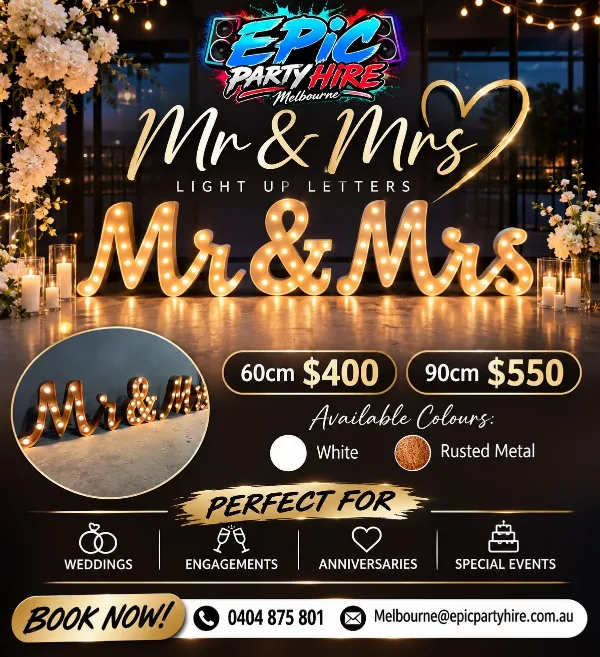
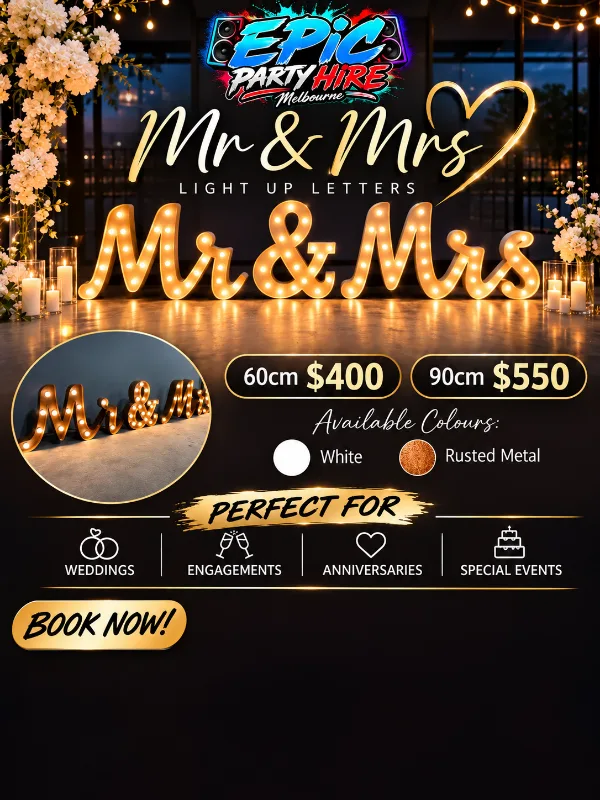
New flyers without contact details: patio heaters, Mr & Mrs, marquee numbers

diff --git a/index.html b/index.html
@@ -140,9 +140,9 @@
 <article class="deal-card product-card" data-product="fairy-floss"><button class="product-card__open" type="button" aria-label="View details and prices for Fairy floss machine"><span class="deal-card__image"><img alt="Fairy floss machine hire, EPIC Party Hire Melbourne" decoding="async" height="657" loading="lazy" src="assets/cards/fairy-floss.webp?v=4" width="600"/></span></button><div class="deal-card__body"><div class="deal-card__titleline"><h3>Fairy floss machine</h3><span class="deal-card__price">$200</span></div><p>Pink cart machine with ingredients for 150 serves.</p><div class="deal-card__actions"><button class="deal-card__button deal-card__button--primary product-card__details-btn" type="button">VIEW DETAILS <span>+</span></button><button aria-label="Select this item and go to the enquiry form" class="deal-card__button deal-card__button--select choose-deal" data-item="Fairy floss machine hire" type="button">SELECT ITEM <span>✓</span></button></div></div><div class="product-card__more" hidden=""><img alt="Fairy floss machine hire flyer with prices" data-src="assets/fairy-floss.webp?v=4" height="1312" width="1199"/><h3>Fairy floss machine</h3><p class="product-modal__spiel">Sweet, fluffy and always a crowd favourite. A hit at kids parties, carnivals and dessert tables.</p><table class="product-modal__prices"><caption>Prices</caption><tbody><tr><th scope="row">Fairy floss machine hire</th><td>$200</td></tr><tr><th scope="row">Extra 150 serves</th><td>+$50</td></tr></tbody></table><h4>What's included</h4><ul><li>Ingredients for up to 150 serves</li><li>Pink fairy floss cart</li><li>Delivery and collection (subject to location)</li></ul><span class="product-modal__item" data-item="Fairy floss machine hire" data-kind="product"></span></div></article>
 <article class="deal-card product-card" data-product="karaoke"><button class="product-card__open" type="button" aria-label="View details and prices for Karaoke jukebox"><span class="deal-card__image"><img alt="Karaoke jukebox hire, EPIC Party Hire Melbourne" decoding="async" height="657" loading="lazy" src="assets/cards/karaoke.webp?v=4" width="600"/></span></button><div class="deal-card__body"><div class="deal-card__titleline"><h3>Karaoke jukebox</h3><span class="deal-card__price">From $200</span></div><p>5000+ video tracks, 2 microphones and an LED disco light.</p><div class="deal-card__actions"><button class="deal-card__button deal-card__button--primary product-card__details-btn" type="button">VIEW DETAILS <span>+</span></button><button aria-label="Select this item and go to the enquiry form" class="deal-card__button deal-card__button--select choose-deal" data-item="Karaoke machine hire" type="button">SELECT ITEM <span>✓</span></button></div></div><div class="product-card__more" hidden=""><img alt="Karaoke jukebox hire flyer with prices" data-src="assets/karaoke.webp?v=4" height="1312" width="1199"/><h3>Karaoke jukebox</h3><p class="product-modal__spiel">Turn any room into a stage. Thousands of songs, two mics and a disco light. All you need is someone brave enough to go first.</p><table class="product-modal__prices"><caption>Prices</caption><tbody><tr><th scope="row">Karaoke jukebox hire</th><td>From $200</td></tr></tbody></table><h4>What's included</h4><ul><li>5000+ video tracks and 600+ karaoke tracks</li><li>New Top 40 hits loaded every quarter</li><li>2 microphones</li><li>LED disco light</li><li>Delivery and collection (subject to location)</li></ul><span class="product-modal__item" data-item="Karaoke machine hire" data-kind="product"></span></div></article>
 <article class="deal-card product-card" data-product="arcade"><button class="product-card__open" type="button" aria-label="View details and prices for Arcade games"><span class="deal-card__image"><img alt="Arcade games hire, EPIC Party Hire Melbourne" decoding="async" height="657" loading="lazy" src="assets/cards/arcade.webp?v=4" width="600"/></span></button><div class="deal-card__body"><div class="deal-card__titleline"><h3>Arcade games</h3><span class="deal-card__price">$200</span></div><p>Retro sit-down arcade table with classic games and 2 stools.</p><div class="deal-card__actions"><button class="deal-card__button deal-card__button--primary product-card__details-btn" type="button">VIEW DETAILS <span>+</span></button><button aria-label="Select this item and go to the enquiry form" class="deal-card__button deal-card__button--select choose-deal" data-item="Arcade games hire" type="button">SELECT ITEM <span>✓</span></button></div></div><div class="product-card__more" hidden=""><img alt="Arcade games hire flyer with prices" data-src="assets/arcade.webp?v=4" height="1312" width="1199"/><h3>Arcade games</h3><p class="product-modal__spiel">Bring back the classics. Our retro sit-down arcade table is loaded with old-school favourites for head-to-head battles.</p><table class="product-modal__prices"><caption>Prices</caption><tbody><tr><th scope="row">Arcade game hire</th><td>$200</td></tr></tbody></table><h4>What's included</h4><ul><li>Retro cocktail-style arcade table</li><li>Classic games built in</li><li>2 stools included</li><li>Delivery and collection (subject to location)</li></ul><span class="product-modal__item" data-item="Arcade games hire" data-kind="product"></span></div></article>
-<article class="deal-card product-card" data-product="numbers"><button class="product-card__open" type="button" aria-label="View details and prices for Giant light-up numbers"><span class="deal-card__image"><img alt="Giant light-up numbers hire, EPIC Party Hire Melbourne" decoding="async" height="637" loading="lazy" src="assets/cards/numbers.webp?v=5" width="600"/></span></button><div class="deal-card__body"><div class="deal-card__titleline"><h3>Giant light-up numbers</h3><span class="deal-card__price">From $200</span></div><p>Two marquee numbers, 60cm to 180cm. Price is for 2 numbers.</p><div class="deal-card__actions"><button class="deal-card__button deal-card__button--primary product-card__details-btn" type="button">VIEW DETAILS <span>+</span></button><button aria-label="Select this item and go to the enquiry form" class="deal-card__button deal-card__button--select choose-deal" data-item="Giant light-up letters and numbers" type="button">SELECT ITEM <span>✓</span></button></div></div><div class="product-card__more" hidden=""><img alt="Giant light-up numbers hire flyer with prices" data-src="assets/numbers.webp?v=5" height="1293" width="1217"/><h3>Giant light-up numbers</h3><p class="product-modal__spiel">Light up the big birthday. Giant marquee numbers make the perfect photo backdrop for 18ths, 21sts, 30ths, 40ths and beyond.</p><table class="product-modal__prices"><caption>Prices</caption><tbody><tr><th scope="row">60cm light bulb (pair)</th><td>$200</td></tr><tr><th scope="row">90cm light bulb (pair)</th><td>$260</td></tr><tr><th scope="row">150cm light bulb (pair)</th><td>$360</td></tr><tr><th scope="row">180cm gloss white (pair, limited stock)</th><td>$300</td></tr></tbody></table><h4>What's included</h4><ul><li>Prices are for 2 numbers</li><li>Warm marquee bulbs</li><li>Delivery and collection (subject to location)</li></ul><span class="product-modal__item" data-item="Giant light-up letters and numbers" data-kind="product"></span></div></article>
-<article class="deal-card product-card" data-product="mr-mrs"><button class="product-card__open" type="button" aria-label="View details and prices for Mr &amp; Mrs letters"><span class="deal-card__image"><img alt="Mr &amp; Mrs letters hire, EPIC Party Hire Melbourne" decoding="async" height="657" loading="lazy" src="assets/cards/mr-mrs.webp?v=4" width="600"/></span></button><div class="deal-card__body"><div class="deal-card__titleline"><h3>Mr &amp; Mrs letters</h3><span class="deal-card__price">From $400</span></div><p>Light-up script letters in white or rusted metal.</p><div class="deal-card__actions"><button class="deal-card__button deal-card__button--primary product-card__details-btn" type="button">VIEW DETAILS <span>+</span></button><button aria-label="Select this item and go to the enquiry form" class="deal-card__button deal-card__button--select choose-deal" data-item="Mr and Mrs light-up letters" type="button">SELECT ITEM <span>✓</span></button></div></div><div class="product-card__more" hidden=""><img alt="Mr &amp; Mrs letters hire flyer with prices" data-src="assets/mr-mrs.webp?v=4" height="1312" width="1199"/><h3>Mr &amp; Mrs letters</h3><p class="product-modal__spiel">The finishing touch for weddings and engagements. Glowing Mr &amp; Mrs script letters for the bridal table or dance floor.</p><table class="product-modal__prices"><caption>Prices</caption><tbody><tr><th scope="row">60cm letters</th><td>$400</td></tr><tr><th scope="row">90cm letters</th><td>$550</td></tr></tbody></table><h4>What's included</h4><ul><li>Available in white or rusted metal</li><li>Perfect for weddings, engagements and anniversaries</li><li>Delivery and collection (subject to location)</li></ul><span class="product-modal__item" data-item="Mr and Mrs light-up letters" data-kind="product"></span></div></article>
-<article class="deal-card product-card" data-product="patio-heaters"><button class="product-card__open" type="button" aria-label="View details and prices for Patio heaters"><span class="deal-card__image"><img alt="Patio heaters hire, EPIC Party Hire Melbourne" decoding="async" height="657" loading="lazy" src="assets/cards/patio-heaters.webp?v=4" width="600"/></span></button><div class="deal-card__body"><div class="deal-card__titleline"><h3>Patio heaters</h3><span class="deal-card__price">From $160</span></div><p>Gas patio heaters with bottles, 8 hours of heating each.</p><div class="deal-card__actions"><button class="deal-card__button deal-card__button--primary product-card__details-btn" type="button">VIEW DETAILS <span>+</span></button><button aria-label="Select this item and go to the enquiry form" class="deal-card__button deal-card__button--select choose-deal" data-item="Patio heaters hire" type="button">SELECT ITEM <span>✓</span></button></div></div><div class="product-card__more" hidden=""><img alt="Patio heaters hire flyer with prices" data-src="assets/patio-heaters.webp?v=4" height="1312" width="1199"/><h3>Patio heaters</h3><p class="product-modal__spiel">Keep the party going when the sun goes down. Ideal for marquees, gardens, pergolas and open courtyards.</p><table class="product-modal__prices"><caption>Prices</caption><tbody><tr><th scope="row">1 heater</th><td>$160</td></tr><tr><th scope="row">2 heaters</th><td>$240</td></tr><tr><th scope="row">3 heaters</th><td>$320</td></tr><tr><th scope="row">4 heaters</th><td>$390</td></tr></tbody></table><h4>What's included</h4><ul><li>Gas bottle included with each heater</li><li>Around 8 hours of heating per bottle</li><li>Delivery and collection (subject to location)</li></ul><span class="product-modal__item" data-item="Patio heaters hire" data-kind="product"></span></div></article>
+<article class="deal-card product-card" data-product="numbers"><button class="product-card__open" type="button" aria-label="View details and prices for Giant light-up numbers"><span class="deal-card__image"><img alt="Giant light-up numbers hire, EPIC Party Hire Melbourne" decoding="async" height="800" loading="lazy" src="assets/cards/numbers.webp?v=6" width="600"/></span></button><div class="deal-card__body"><div class="deal-card__titleline"><h3>Giant light-up numbers</h3><span class="deal-card__price">From $200</span></div><p>Two marquee numbers, 60cm to 180cm. Price is for 2 numbers.</p><div class="deal-card__actions"><button class="deal-card__button deal-card__button--primary product-card__details-btn" type="button">VIEW DETAILS <span>+</span></button><button aria-label="Select this item and go to the enquiry form" class="deal-card__button deal-card__button--select choose-deal" data-item="Giant light-up letters and numbers" type="button">SELECT ITEM <span>✓</span></button></div></div><div class="product-card__more" hidden=""><img alt="Giant light-up numbers hire flyer with prices" data-src="assets/numbers.webp?v=6" height="1448" width="1086"/><h3>Giant light-up numbers</h3><p class="product-modal__spiel">Light up the big birthday. Giant marquee numbers make the perfect photo backdrop for 18ths, 21sts, 30ths, 40ths and beyond.</p><table class="product-modal__prices"><caption>Prices</caption><tbody><tr><th scope="row">60cm light bulb (pair)</th><td>$200</td></tr><tr><th scope="row">90cm light bulb (pair)</th><td>$260</td></tr><tr><th scope="row">150cm light bulb (pair)</th><td>$360</td></tr><tr><th scope="row">180cm gloss white (pair, limited stock)</th><td>$300</td></tr></tbody></table><h4>What's included</h4><ul><li>Prices are for 2 numbers</li><li>Warm marquee bulbs</li><li>Delivery and collection (subject to location)</li></ul><span class="product-modal__item" data-item="Giant light-up letters and numbers" data-kind="product"></span></div></article>
+<article class="deal-card product-card" data-product="mr-mrs"><button class="product-card__open" type="button" aria-label="View details and prices for Mr &amp; Mrs letters"><span class="deal-card__image"><img alt="Mr &amp; Mrs letters hire, EPIC Party Hire Melbourne" decoding="async" height="800" loading="lazy" src="assets/cards/mr-mrs.webp?v=6" width="600"/></span></button><div class="deal-card__body"><div class="deal-card__titleline"><h3>Mr &amp; Mrs letters</h3><span class="deal-card__price">From $400</span></div><p>Light-up script letters in white or rusted metal.</p><div class="deal-card__actions"><button class="deal-card__button deal-card__button--primary product-card__details-btn" type="button">VIEW DETAILS <span>+</span></button><button aria-label="Select this item and go to the enquiry form" class="deal-card__button deal-card__button--select choose-deal" data-item="Mr and Mrs light-up letters" type="button">SELECT ITEM <span>✓</span></button></div></div><div class="product-card__more" hidden=""><img alt="Mr &amp; Mrs letters hire flyer with prices" data-src="assets/mr-mrs.webp?v=6" height="1448" width="1086"/><h3>Mr &amp; Mrs letters</h3><p class="product-modal__spiel">The finishing touch for weddings and engagements. Glowing Mr &amp; Mrs script letters for the bridal table or dance floor.</p><table class="product-modal__prices"><caption>Prices</caption><tbody><tr><th scope="row">60cm letters</th><td>$400</td></tr><tr><th scope="row">90cm letters</th><td>$550</td></tr></tbody></table><h4>What's included</h4><ul><li>Available in white or rusted metal</li><li>Perfect for weddings, engagements and anniversaries</li><li>Delivery and collection (subject to location)</li></ul><span class="product-modal__item" data-item="Mr and Mrs light-up letters" data-kind="product"></span></div></article>
+<article class="deal-card product-card" data-product="patio-heaters"><button class="product-card__open" type="button" aria-label="View details and prices for Patio heaters"><span class="deal-card__image"><img alt="Patio heaters hire, EPIC Party Hire Melbourne" decoding="async" height="800" loading="lazy" src="assets/cards/patio-heaters.webp?v=6" width="600"/></span></button><div class="deal-card__body"><div class="deal-card__titleline"><h3>Patio heaters</h3><span class="deal-card__price">From $160</span></div><p>Gas patio heaters with bottles, 8 hours of heating each.</p><div class="deal-card__actions"><button class="deal-card__button deal-card__button--primary product-card__details-btn" type="button">VIEW DETAILS <span>+</span></button><button aria-label="Select this item and go to the enquiry form" class="deal-card__button deal-card__button--select choose-deal" data-item="Patio heaters hire" type="button">SELECT ITEM <span>✓</span></button></div></div><div class="product-card__more" hidden=""><img alt="Patio heaters hire flyer with prices" data-src="assets/patio-heaters.webp?v=6" height="1448" width="1086"/><h3>Patio heaters</h3><p class="product-modal__spiel">Keep the party going when the sun goes down. Ideal for marquees, gardens, pergolas and open courtyards.</p><table class="product-modal__prices"><caption>Prices</caption><tbody><tr><th scope="row">1 heater</th><td>$160</td></tr><tr><th scope="row">2 heaters</th><td>$240</td></tr><tr><th scope="row">3 heaters</th><td>$320</td></tr><tr><th scope="row">4 heaters</th><td>$390</td></tr></tbody></table><h4>What's included</h4><ul><li>Gas bottle included with each heater</li><li>Around 8 hours of heating per bottle</li><li>Delivery and collection (subject to location)</li></ul><span class="product-modal__item" data-item="Patio heaters hire" data-kind="product"></span></div></article>
 <article class="deal-card product-card" data-product="outdoor-cinema"><button class="product-card__open" type="button" aria-label="View details and prices for Outdoor cinema"><span class="deal-card__image"><img alt="Outdoor cinema hire, EPIC Party Hire Melbourne" decoding="async" height="657" loading="lazy" src="assets/cards/outdoor-cinema.webp?v=4" width="600"/></span></button><div class="deal-card__body"><div class="deal-card__titleline"><h3>Outdoor cinema</h3><span class="deal-card__price">$400</span></div><p>100-inch inflatable screen, projector and sound bar.</p><div class="deal-card__actions"><button class="deal-card__button deal-card__button--primary product-card__details-btn" type="button">VIEW DETAILS <span>+</span></button><button aria-label="Select this item and go to the enquiry form" class="deal-card__button deal-card__button--select choose-deal" data-item="Outdoor cinema hire" type="button">SELECT ITEM <span>✓</span></button></div></div><div class="product-card__more" hidden=""><img alt="Outdoor cinema hire flyer with prices" data-src="assets/outdoor-cinema.webp?v=4" height="1312" width="1199"/><h3>Outdoor cinema</h3><p class="product-modal__spiel">Movie night under the stars. Everything you need for a backyard cinema. Just bring the blankets and the popcorn.</p><table class="product-modal__prices"><caption>Prices</caption><tbody><tr><th scope="row">Outdoor cinema hire</th><td>$400</td></tr></tbody></table><h4>What's included</h4><ul><li>Large 100-inch inflatable screen</li><li>Projector</li><li>Speaker sound bar</li><li>DVD / Blu-ray player</li><li>Delivery and collection (subject to location)</li></ul><span class="product-modal__item" data-item="Outdoor cinema hire" data-kind="product"></span></div></article>
 </div>
 <p class="price-note">Prices in AUD. Delivery and collection depend on your location and are confirmed when you book.</p>
